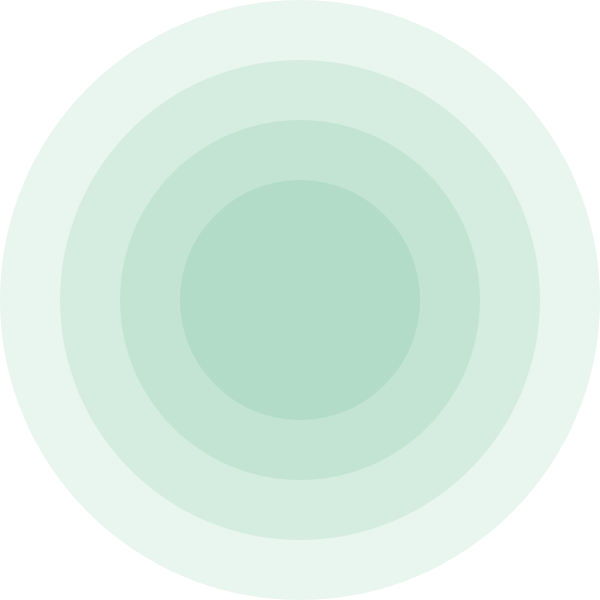
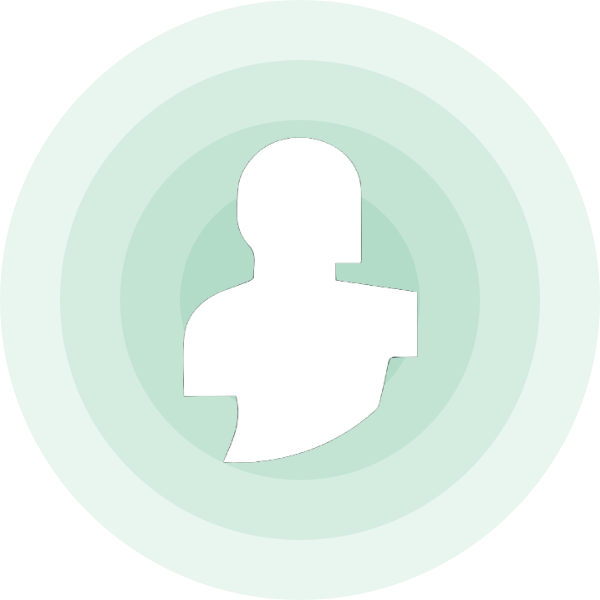
Added explanation for discovery and plan modes to appguide. Modified detected image

Changed region(s): [[0.3, 0.21, 0.72, 0.78]]

diff --git a/src/config/localization.js b/src/config/localization.js
@@ -128,6 +128,10 @@ const strings = new LocalizedStrings({
     description_3:'In MeinObjekt, objects are alive. After matching with an object, you can start a chat conversation with it. They will tell you untold stories and eventually invite to meet them for real in the museum space. ',
     title_4:'Individual tour through the museum',
     description_4:'Make your path through the museum as individual as yourself. With MeinObjekt you will find your very own tour through the museum with objects that really fascinate you.',
+    title_5:'Discovery Mode',
+    description_5:'When you are inside of one of the museums - the app will detect it and you will enter a Discovery Mode. In this mode you can talk to objects, find them in the museum and add them to your collection.',
+    title_6:'Plan Mode',
+    description_6:'When you are outside of museums - you can only enter Plan mode. In this mode you can only see what objects are in the museum and talk to them. But you cannot look for them in the museum or add them to your collection',
     next:'Next',
     skip:'Skip',
     swipeRightIf:'Swipe the object-cards left or right to like or dislike them',
@@ -281,6 +285,10 @@ const strings = new LocalizedStrings({
     description_3:'In MeinObjekt werden Objekte lebendig. Nach dem Matchen mit einem Objekt kannst du eine Chat-Unterhaltung mit ihm beginnen. Sie erzählen dir unglaubliche Geschichten und laden dich schließlich ein, sie im Museum kennenzulernen.',
     title_4:'Individuelle Führung durch das Museum',
     description_4:'Erstelle deine persönliche Museumstour, die so individuell wie du selbst ist. Mit MeinObjekt hast du die Möglichkeit, eine persönliche Tour durchs Museum zu erstellen, mit Objekten die dich wirklich faszinieren.',
+    title_5:'Erkennungs-Modus',
+    description_5:'Wenn Sie sich in einem der Museen befinden, erkennt die App dies und Sie gelangen in einen Erkennungsmodus. In diesem Modus können Sie mit Objekten sprechen, sie im Museum finden und Ihrer Sammlung hinzufügen.',
+    title_6:'Plan-Modus',
+    description_6:'Wenn Sie sich außerhalb von Museen befinden, können Sie nur in den Plan-Modus wechseln. In diesem Modus können Sie nur sehen, welche Objekte sich im Museum befinden, und mit ihnen sprechen. Sie können sie jedoch nicht im Museum suchen oder Ihrer Sammlung hinzufügen.',
     next:'Weiter',
     skip:'Überspringen',
     swipeRightIf:'Wische nach rechts, wenn du ein Objekt liken willst, oder wische nach links, um es zu verwerfen',

diff --git a/src/scenes/Onboarding/AppGuide.js b/src/scenes/Onboarding/AppGuide.js
@@ -10,6 +10,8 @@ import img_1 from '../../assets/images/onboarding/1.png'
 import img_2 from '../../assets/images/onboarding/2.png'
 import img_3 from '../../assets/images/onboarding/3.png'
 import img_4 from '../../assets/images/onboarding/4.png'
+import detected from '../../assets/images/detected.png'
+import detectedPlan from '../../assets/images/detectedPlan.png'
 
 const { width, height } = Dimensions.get("window");
 
@@ -28,6 +30,8 @@ class Swiper extends React.Component {
           {id:1, title:strings.title_2, description:strings.description_2, image:img_2},
           {id:2, title:strings.title_3, description:strings.description_3, image:img_3},
           {id:3, title:strings.title_4, description:strings.description_4, image:img_4},
+          {id:4, title:strings.title_5, description:strings.description_5, image:detected},
+          {id:5, title:strings.title_6, description:strings.description_6, image:detectedPlan},
       ]
     }
 
@@ -59,8 +63,6 @@ class Swiper extends React.Component {
           </View>
         )
     }
-
-
 
     render() {
         const{ currentSelectIndex } = this.state;

diff --git a/src/scenes/Museums/DetectLocation.js b/src/scenes/Museums/DetectLocation.js
@@ -182,12 +182,10 @@ export const CouldntDetect = ({handlePlanTourButton, handleSelectMuseumButton}) 
 )
 CouldntDetect.propTypes = {handlePlanTourButton: PropTypes.func.isRequired, handleSelectMuseumButton: PropTypes.func.isRequired};
 
-export const DetectedMuseum = ({title, logo, handleSelectMuseumButton, handleChooseMuseum, museum_id}) => (
+export const DetectedMuseum = ({title, handleSelectMuseumButton, handleChooseMuseum, museum_id}) => (
   <View style={{flex:1}}>
     <View style={{flex:1, alignItems:'center', justifyContent:'center'}}>
-      <ImageBackground source={detected} style={{width:200, height:200, alignItems:'center', justifyContent:'center'}} resizeMode="contain">
-        <Image source={{uri:logo}} style={{width:240, height:50}} resizeMode="contain"  />
-      </ImageBackground>
+      <Image source={detected} style={{width:200, height:200}} resizeMode="contain"  />
       <Text style={styles.main.locationTitleRow}>{`${strings.weDetectedThatYou} ${title}`}</Text>
     </View>
     <View style={{padding:15}}>
